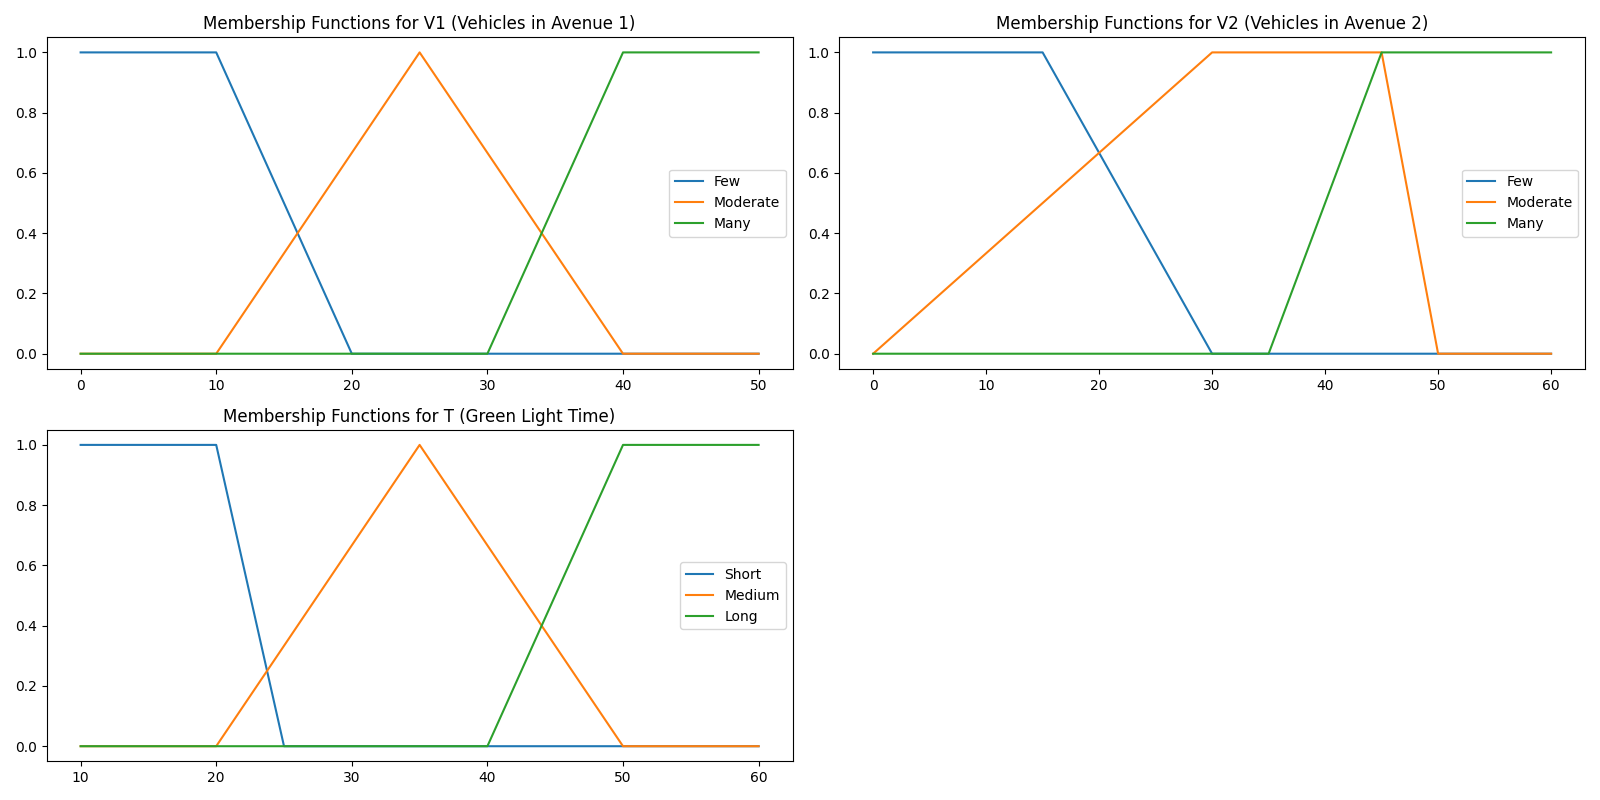
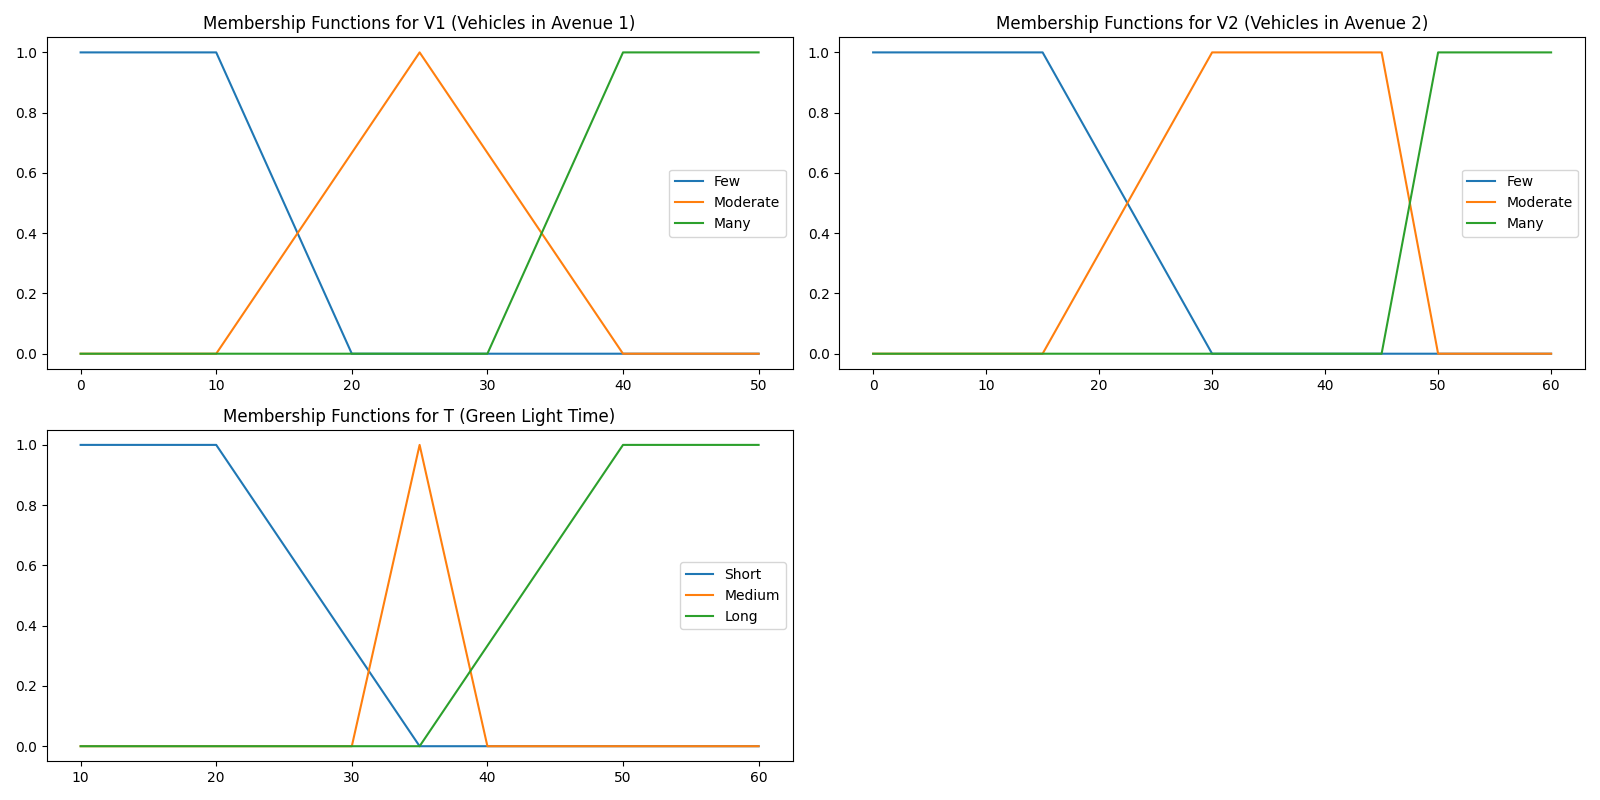
fix: arreglo conjuntos error de enunciado

diff --git a/fuzzy_logic/main.py b/fuzzy_logic/main.py
@@ -20,12 +20,12 @@ class SemaphoreSystem:
         self.V1['many'] = fuzz.trapmf(self.V1.universe, [30, 40, 50, 50])
 
         self.V2['few'] = fuzz.trapmf(self.V2.universe, [0, 0, 15, 30])
-        self.V2['moderate'] = fuzz.trapmf(self.V2.universe, [0, 30, 45, 50])
-        self.V2['many'] = fuzz.trapmf(self.V2.universe, [35, 45, 60, 60])
+        self.V2['moderate'] = fuzz.trapmf(self.V2.universe, [15, 30, 45, 50])
+        self.V2['many'] = fuzz.trapmf(self.V2.universe, [45, 50, 60, 60])
 
-        self.T['short'] = fuzz.trapmf(self.T.universe, [10, 10, 20, 25])
-        self.T['medium'] = fuzz.trimf(self.T.universe, [20, 35, 50])
-        self.T['long'] = fuzz.trapmf(self.T.universe, [40, 50, 60, 60])
+        self.T['short'] = fuzz.trapmf(self.T.universe, [0, 0, 20, 35])
+        self.T['medium'] = fuzz.trimf(self.T.universe, [30, 35, 40])
+        self.T['long'] = fuzz.trapmf(self.T.universe, [35, 50, 60, 60])
 
     def rules(self):
         return [ctrl.Rule(self.V1['many'] & self.V2['few'], self.T['long']),
